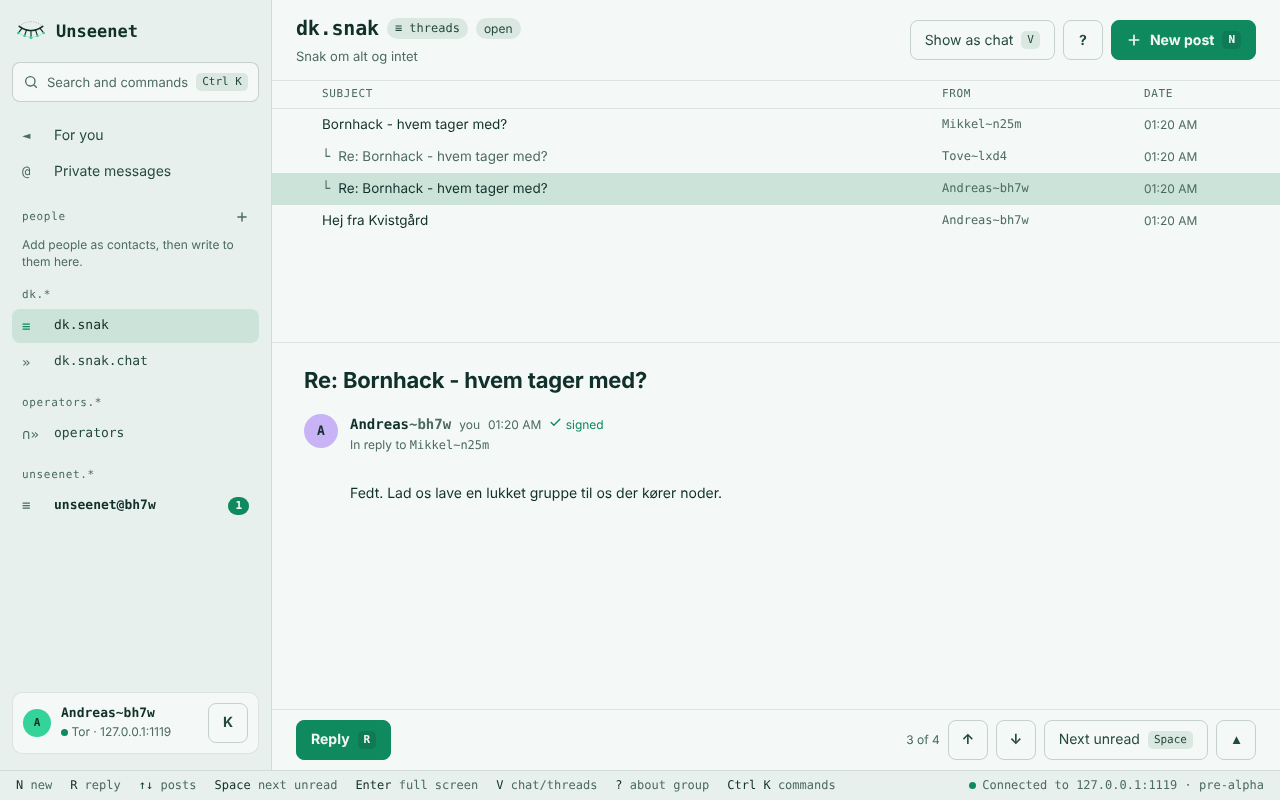
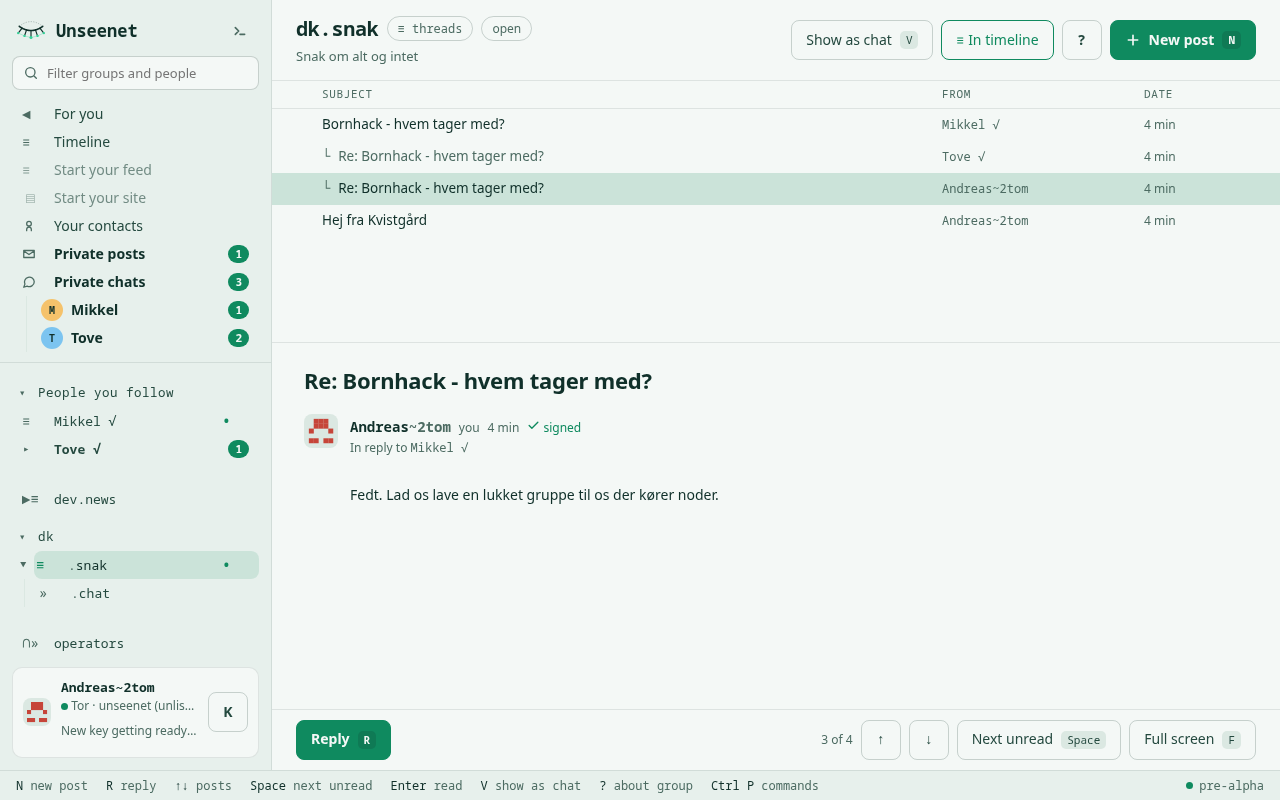
Docs: new screenshots and demo - People you follow, timeline, Private chats, the composer (#207) (#216)
Claude-Session: https://claude.ai/code/session_018Y3WsC8BqvmGaTeN7Cg9vq

diff --git a/tools/record_demo.py b/tools/record_demo.py
@@ -5,7 +5,8 @@
     python tools/record_demo.py dev/web.log docs/img
 
 Needs Playwright (pip install playwright; playwright install chromium) and ffmpeg.
-Writes demo.gif, threads.png, reply.png, chat.png, light.png and palette.png.
+Writes demo.gif, threads.png, reply.png, chat.png, feed.png, timeline.png, private.png,
+compose.png, light.png and palette.png.
 """
 import re
 import shutil
@@ -30,6 +31,13 @@ def main() -> None:
                             record_video_dir=tmp, record_video_size={"width": W, "height": H})
         page = ctx.new_page()
         pause = lambda s=1.2: time.sleep(s)  # noqa: E731
+
+        def open_group(name: str) -> None:
+            """Open a group by name, as a person would find it: the sidebar's filter."""
+            page.fill("#sidefilter", name)
+            pause(0.6)
+            page.press("#sidefilter", "Enter")
+            pause(0.6)
         page.goto(url)
         page.wait_for_selector("#pass")
         pause(1)
@@ -58,7 +66,7 @@ def main() -> None:
         pause(1)
         page.wait_for_selector(".prow.pending", state="detached", timeout=90000)
         pause(2.5)
-        page.click(".item:has-text(\"dk.snak.chat\")")
+        open_group("dk.snak.chat")
         page.wait_for_selector('[data-k="chat"]')
         pause(1.5)
         page.type('[data-k="chat"]', "Hej fra webklienten!", delay=60)
@@ -68,6 +76,35 @@ def main() -> None:
         page.wait_for_selector("text=reached the node", timeout=90000)
         pause(2)
         page.screenshot(path=out / "chat.png")
+        # a person's feed under People you follow, cut at the author's read more (gui#210, #188)
+        page.click(".people-followed .item:has-text(\"Mikkel\")")
+        page.wait_for_selector(".entry")
+        pause(2)
+        page.screenshot(path=out / "feed.png")
+        # the timeline: feeds and a discussion group put into it (UN-RFC 0034 6.2)
+        page.click(".item:has-text(\"Timeline\")")
+        page.wait_for_selector(".entry")
+        pause(2)
+        page.screenshot(path=out / "timeline.png")
+        # private chats: one row among Your contacts and Private posts, the list in the pane (gui#209)
+        page.click(".chats-item")
+        page.wait_for_selector(".chats-list")
+        pause(1.5)
+        page.screenshot(path=out / "private.png")
+        # room to write a post (gui#203)
+        open_group("unseenet@")
+        page.wait_for_selector(".prow")
+        page.click(".ghead button:has-text(\"New post\")")
+        page.wait_for_selector("#subject")
+        page.type("#subject", "A UN-RFC for the forwarding delay", delay=30)
+        page.click("#body")
+        page.keyboard.press("Control+Home")
+        page.keyboard.type("A first draft of what Tove suggested: the delay grows with how few peers "
+                           "a node has.", delay=15)
+        pause(1)
+        page.screenshot(path=out / "compose.png")
+        page.keyboard.press("Escape")
+        pause(0.8)
         page.keyboard.press("Escape")
         page.keyboard.press("Control+k")
         pause(0.6)
@@ -76,14 +113,14 @@ def main() -> None:
         page.screenshot(path=out / "palette.png")
         page.keyboard.press("Escape")
         pause(0.6)
-        page.click(".item:has-text(\"operators\")")
+        open_group("operators")
         pause(2.5)
         page.keyboard.press("Escape")
         page.keyboard.press("Control+k")
         page.keyboard.type("light", delay=90)
         page.keyboard.press("Enter")
         pause(0.6)
-        page.click(".item:has-text(\"dk.snak\") >> nth=0")
+        open_group("dk.snak@")
         page.wait_for_selector(".prow")
         page.click(".prow:has-text(\"Bornhack\") >> nth=2")
         pause(2.5)
@@ -97,9 +134,9 @@ def main() -> None:
         b.close()
         gif = out / "demo.gif"
         ffmpeg = shutil.which("ffmpeg") or "ffmpeg"
-        filters = "fps=10,scale=960:-1:flags=lanczos"
+        filters = "fps=6,scale=800:-1:flags=lanczos"     # a longer demo, kept under ~5 MB
         subprocess.run([ffmpeg, "-y", "-loglevel", "error", "-i", video, "-vf",
-                        f"{filters},split[a][b];[a]palettegen=max_colors=96[p];[b][p]paletteuse=dither=bayer:bayer_scale=4",
+                        f"{filters},split[a][b];[a]palettegen=max_colors=64[p];[b][p]paletteuse=dither=bayer:bayer_scale=4",
                         str(gif)], check=True)
         shutil.copy(video, out / "demo.webm")
     print("wrote", ", ".join(sorted(f.name for f in out.iterdir())))

diff --git a/tools/seed_dev.py b/tools/seed_dev.py
@@ -96,6 +96,39 @@ async def main() -> None:
                       ("Og den kører fra en USB-stick.", mikkel)]:
         await who.post(chat, "", text, kind="chat")
 
+    # feeds, a site and following people (UN-RFC 0034, 0035; gui#210): Mikkel and Tove
+    # have feeds, Tove a site too, and Andreas follows both - People you follow
+    mfeed = await mikkel.start_personal_group("feed")
+    tfeed = await tove.start_personal_group("feed")
+    tsite = await tove.start_personal_group("site")
+    await tove.put_page(tsite, "index", "# Toves noder\n\nNoter om at køre en node på en Pi 5 - "
+                        "og hvorfor jeg gør det.\n")
+    long = await mikkel.post(mfeed, "Første tur med noden i rygsækken",
+                             "Jeg har haft en node kørende fra en Pi i rygsækken hele weekenden.\n\n"
+                             "...\n\n"            # read more (UN-RFC 0031 3.2.1): the feed cuts here
+                             "Den holdt fint på et powerbank i 14 timer, og Tor fandt vej hver gang "
+                             "jeg skiftede net. Næste gang prøver jeg med solcelle.")
+    await tove.post(tfeed, "", "Ny side om at køre en node på en Pi 5 - link i min profil :rocket:",
+                    kind="chat")
+    for who, name, f in ((mikkel, "Mikkel", mfeed), (tove, "Tove", tfeed)):
+        await who.publish_profile({"v": 1, "about": f"Hej, jeg er {name}.", "feeds": [f]})
+    await me.follow_person(mikkel.identity().key_text)
+    await me.follow_person(tove.identity().key_text)
+    me.subscribe(tsite)
+    await tove.fetch_group(mfeed)
+    await tove.post(mfeed, "", "Solcelle! Det vil jeg se.", kind="chat", references=[long])
+    me.set_in_timeline(snak, True)         # a discussion group in the timeline (UN-RFC 0034 6.2)
+
+    # private: contacts, a private post and chats with unread lines (gui#209)
+    me.add_contact(mikkel.identity().key_text, "Mikkel")
+    me.add_contact(tove.identity().key_text, "Tove")
+    await mikkel.send_chat("contact:" + me.identity().key_text, "Har du set mit feed? Rygsæk-noden kører.")
+    await tove.send_chat("contact:" + me.identity().key_text, "Kan vi peere node4 med din i aften?")
+    await tove.send_chat("contact:" + me.identity().key_text, "Jeg har sendt dig onion-adressen som post.")
+    await tove.send_private(me.my_inbox, "Onion-adressen til node4",
+                            "Her er den - del den ikke videre endnu.\n",
+                            owner_key=me.identity().public_key)
+
     for p in (mikkel, tove):           # pick up the invitation
         p.subscribe(ops)
         await p.fetch_group(ops)

diff --git a/README.md b/README.md
@@ -42,6 +42,10 @@ below. Chat groups are chats. The group's owner decides which a group is, and
 | ![A discussion group: the posts as a tree, the selected post below with its quote](docs/img/threads.png) | ![The compose window: the post quoted with "wrote:", your answer, your signature below](docs/img/reply.png) |
 | **Chat where it is a chat** | **Light, or dark** |
 | ![A chat group: messages in order, and one that has reached the node](docs/img/chat.png) | ![The light theme](docs/img/light.png) |
+| **People you follow, their feeds** | **Your timeline** |
+| ![A person's feed under People you follow: an entry cut at the author's read more, a comment under it](docs/img/feed.png) | ![The timeline: the feeds you follow and a discussion group you put into it, newest first](docs/img/timeline.png) |
+| **Private chats, one per person** | **Room to write** |
+| ![Your contacts, Private posts and Private chats at the top; the list of private chats](docs/img/private.png) | ![The post composer: a toolbar, language, tags and content warnings](docs/img/compose.png) |
 
 ### Booted from a stick
 

diff --git a/CHANGELOG.md b/CHANGELOG.md
@@ -7,6 +7,9 @@ principles as [unseenet](https://github.com/unseenet/unseenet/blob/main/docs/dev
 
 ## [Unreleased]
 
+- **New screenshots and demo** (#207): the README shows People you follow, the timeline,
+  Private chats and the post composer; the playground (`tools/dev.sh`) has feeds, a site,
+  contacts, unread chats and a read-more entry, and its node carries sites and pictures.
 - **People you follow, by person** (asked for by the maintainer, #210, unseenet#706):
   following someone puts their feed and site together under their name in *People you
   follow*, sorted by name - one row when they have only one - instead of branches called
